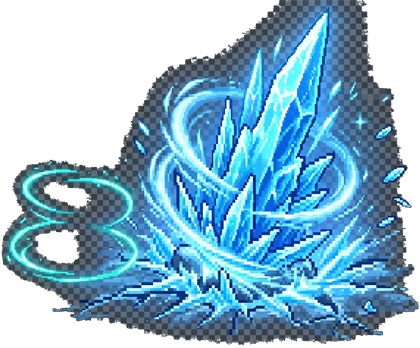
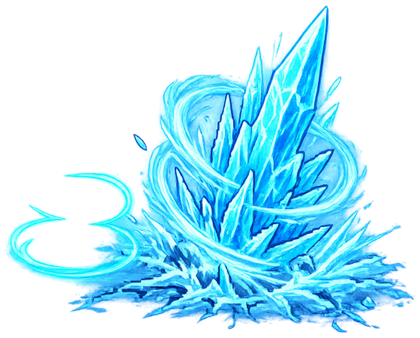
新增惡魔王／樹王兩隻魔王、玩家改為藍色史萊姆、遊戲內返回主選單按鈕
四魔王輪流登場（黑藍巨龍/血色紅龍/惡魔王/樹王），惡魔王與樹王各自三招
技能（遠距彈幕/新星特殊技/近戰揮擊，2 秒前搖警示），遺物先留空待補。
Boss 碰撞判定改用貼圖實際尺寸比例計算，不再寫死龍的 574x320。

玩家角色換成正式美術圖（藍色史萊姆），取代程式產生的簡易貼圖，碰撞
判定同樣改用貼圖比例動態計算。

遊戲內左下角新增「返回主選單」按鈕，跟主選單按鈕同樣的羊皮紙風格，
點擊會正確清掉 GameScene 與可能開著的升級/遺物/選技能場景。

主選單更新日誌補上這幾次的重點更新。

diff --git a/src/boss/Boss.js b/src/boss/Boss.js
@@ -4,15 +4,21 @@ import { textStyle } from '../utils/TextStyle.js';
 
 const BOSS_BASE_HP = 900;
 const BOSS_BASE_DMG = 22;
-// Boss 現在用玩家提供的正式美術圖（去背後的黑龍/紅龍，見 assets/boss_black.png、
-// assets/boss_red.png），兩張圖都統一裁切/縮放成同樣的 574x320，不用再各自調整。
-// 0.9 倍縮放後龍的身體高度跟原本程式產生的貼圖差不多大，翅膀展開會比原本更寬更有氣勢。
+// Boss 現在用玩家提供的正式美術圖。兩隻龍（去背後的黑龍/紅龍，見 assets/boss_black.png、
+// assets/boss_red.png）統一裁切/縮放成 574x320，0.9 倍縮放後龍的身體高度跟原本程式產生
+// 的貼圖差不多大。惡魔王／樹王是直立人形，原始圖片長寬比跟龍差很多（比較接近正方形、
+// 沒有龍那麼寬扁），沿用同一個縮放倍率會顯得比兩隻龍巨大兩倍以上，所以改成每個型態自己
+// 的縮放倍率（見 BOSS_TYPES 的 scale 欄位），讓四種 Boss 站在畫面上的「體型感」比較一致。
 const BOSS_SCALE = 0.9;
 const BOSS_TOUCH_RADIUS = 100;   // Boss 對玩家造成接觸傷害的判定半徑（跟著體型放大）
 
-// 兩種 Boss 型態的外觀／技能配色與死亡時提供的遺物設定。
-// 黑藍巨龍沿用原本的冰系龍息，紅龍則改成火系龍息，死亡後提供的遺物也不同，
-// 這樣兩種 Boss 輪流出現時，玩家最終可以拿到兩種不同的永久遺物。
+// 四種 Boss 型態的外觀／技能配色與死亡時提供的遺物設定。
+// 兩隻龍（黑藍／紅）沿用原本的衝刺／龍爪／龍息三招；惡魔王／樹王是新增的兩隻，
+// 技能組改成「遠距／特殊／近戰」各一招（見 skills 欄位），近戰共用 claw 的揮擊
+// 邏輯、遠距共用 breath 的扇形彈幕邏輯（只是換色換材質），特殊技能則是新增的
+// nova（範圍新星），novaCenter 決定新星中心點是「Boss 自己」還是「鎖定的目標點」。
+// 惡魔王／樹王死亡暫不提供遺物（relicId: null，遺物之後再補上），
+// onBossDefeated() 已經會對 falsy relicId 直接跳過遺物選擇，不影響擊殺獎勵。
 const BOSS_TYPES = {
   blue: {
     label: '⚠ 黑藍巨龍降臨！ ⚠',
@@ -24,7 +30,10 @@ const BOSS_TYPES = {
     boltTexture: 'proj_frost',
     chargeTint: 0xaaccff,
     windColor: 0x24242c, // 黑龍衝刺時周圍的黑色風系粒子
+    clawColor: 0xffe066,
     relicId: 'dragonAura',
+    skills: ['charge', 'claw', 'breath'],
+    skillLabels: { charge: '⚠ 衝刺！', claw: '⚠ 龍爪！', breath: '⚠ 龍息！' },
   },
   red: {
     label: '⚠ 血色紅龍降臨！ ⚠',
@@ -36,14 +45,52 @@ const BOSS_TYPES = {
     boltTexture: 'proj_fireball',
     chargeTint: 0xffcfa0,
     windColor: 0xcc2200, // 紅龍衝刺時周圍的紅色風系粒子
+    clawColor: 0xffe066,
     relicId: 'dragonWings',
+    skills: ['charge', 'claw', 'breath'],
+    skillLabels: { charge: '⚠ 衝刺！', claw: '⚠ 龍爪！', breath: '⚠ 龍息！' },
+  },
+  demon: {
+    label: '⚠ 惡魔王降臨！ ⚠',
+    labelColor: '#d18aff',
+    texture: 'boss_demon',
+    aoeColor: 0x8b2fd9,
+    breathColor: 0x9d4dff,
+    breathTexture: 'fx_frost',
+    boltTexture: 'proj_frost',
+    chargeTint: 0xe0c3ff,
+    windColor: 0x4b1a66, // 惡魔王施放技能時周圍的暗紫色風系粒子
+    clawColor: 0xd94dff,
+    relicId: null, // 遺物之後補上
+    skills: ['breath', 'nova', 'claw'], // 遠距：深淵彈幕／特殊：詛咒新星／近戰：惡魔爪擊
+    skillLabels: { breath: '⚠ 深淵彈幕！', nova: '⚠ 詛咒新星！', claw: '⚠ 惡魔爪擊！' },
+    novaCenter: 'self', // 新星以惡魔王自己為中心炸開
+    novaRadius: 260,
+    scale: 0.62, // 原始圖接近正方形（不像龍那麼寬扁），縮小一點避免體型看起來比龍誇張
+  },
+  treant: {
+    label: '⚠ 樹王降臨！ ⚠',
+    labelColor: '#8fe36a',
+    texture: 'boss_treant',
+    aoeColor: 0x4caf50,
+    breathColor: 0x7ed957,
+    breathTexture: 'fx_frost',
+    boltTexture: 'proj_frost',
+    chargeTint: 0xc8f7b0,
+    windColor: 0x2e5c1f, // 樹王施放技能時周圍的深綠色風系粒子
+    clawColor: 0x9dff6b,
+    relicId: null, // 遺物之後補上
+    skills: ['breath', 'nova', 'claw'], // 遠距：荊棘彈幕／特殊：樹根衝擊／近戰：巨杖橫掃
+    skillLabels: { breath: '⚠ 荊棘彈幕！', nova: '⚠ 樹根衝擊！', claw: '⚠ 巨杖橫掃！' },
+    novaCenter: 'target', // 樹根衝擊鎖定玩家所在位置冒出來，不是繞著樹王自己
+    novaRadius: 170,
+    scale: 0.61, // 原始圖接近正方形，縮小一點避免體型看起來比龍誇張
   },
 };
 
 // 三個技能發動前的「前搖」時間：Boss 會停下來、亮起警示色並顯示警告文字/範圍指示，
 // 讓玩家有充足時間看懂「牠要出招了」並閃開，過了這段時間才會真的造成傷害。
 const TELEGRAPH_MS = 2000;
-const TELEGRAPH_LABELS = { charge: '⚠ 衝刺！', claw: '⚠ 龍爪！', breath: '⚠ 龍息！' };
 
 // Boss 強度倍率：依「這是第幾隻王」(bossIndex，從 1 開始，每 5 分鐘一隻)決定，
 // 不再用存活分鐘數線性計算。數列從 1, 2 開始，之後每項是前兩項相加（費氏數列變體）：
@@ -62,9 +109,9 @@ function bossStrengthMultiplier(bossIndex) {
   return b;
 }
 
-// Boss 系統：西方龍造型，具備衝撞 / 範圍衝擊波 / 龍息遠距攻擊 三種技能，血條與死亡動畫。
-// bossType 決定外觀配色、龍息屬性（冰／火）以及死亡後提供的遺物種類；
-// bossIndex 決定強度倍率（見上方 bossStrengthMultiplier）。
+// Boss 系統：目前有四種型態（黑藍巨龍／血色紅龍／惡魔王／樹王），各自三招技能、
+// 血條與死亡動畫共用同一套邏輯。bossType 決定外觀、技能組合（見 BOSS_TYPES.skills）
+// 以及死亡後提供的遺物種類；bossIndex 決定強度倍率（見上方 bossStrengthMultiplier）。
 export default class Boss {
   constructor(scene, player, difficultyMinutes, bossType = 'blue', bossIndex = 1) {
     this.scene = scene;
@@ -85,10 +132,14 @@ export default class Boss {
     const y = py + Math.sin(angle) * 600;
 
     this.sprite = scene.physics.add.sprite(x, y, this.typeDef.texture);
-    this.sprite.setScale(BOSS_SCALE);
-    // 碰撞圓圈只用來讓物理身體存在（遊戲裡怪物碰撞判定都是手動算距離，不是靠這個），
-    // 圓心抓在新美術圖胸口／交叉的龍爪附近（貼圖寬 574、高 320，身體大約在中央偏下）。
-    this.sprite.body.setCircle(70, 574 / 2 - 70, 176 - 70);
+    this.sprite.setScale(this.typeDef.scale ?? BOSS_SCALE);
+    // 碰撞圓圈只用來讓物理身體存在（遊戲裡怪物碰撞判定都是手動算距離，不是靠這個）。
+    // 圓心抓在美術圖胸口位置：水平置中、垂直落在原圖高度 55% 左右（兩隻龍是寬扁的
+    // 橫向姿勢，惡魔王／樹王是站立的直向人形，圖片長寬比差很多，所以用「原始貼圖
+    // 尺寸的比例」算，而不是寫死 574x320 那組數字，四種 Boss 都能正確對齊）。
+    const texW = this.sprite.frame.width, texH = this.sprite.frame.height;
+    const bodyRadius = texH * 0.219;
+    this.sprite.body.setCircle(bodyRadius, texW / 2 - bodyRadius, texH * 0.55 - bodyRadius);
     this.sprite.setDepth(y);
 
     this.phase = 'chase'; // chase | charge | aoe | ranged
@@ -159,12 +210,13 @@ export default class Boss {
     this.headBarFill.setPosition(bx - 58, headY).setDisplaySize(116 * hpRatio, 8).setDepth(headY);
   }
 
-  // 三個技能輪流隨機挑選：龍之吐息（遠距噴火/噴冰）／衝刺（續力衝撞）／龍爪（三爪金色斬擊）。
+  // 三個技能輪流隨機挑選，實際有哪三招由 typeDef.skills 決定（兩隻龍是
+  // 衝刺／龍爪／龍息；惡魔王／樹王是遠距彈幕／新星／近戰揮擊，見 BOSS_TYPES）。
   // 選好之後不會馬上出招，而是先進入「前搖」：瞄準方向/目標點在這一刻就鎖定，
   // 停頓 TELEGRAPH_MS 讓玩家看到警示、有機會移動閃開，時間到才真的執行攻擊。
   _chooseSkill(time) {
-    const r = Math.random();
-    const kind = r < 0.34 ? 'charge' : r < 0.67 ? 'claw' : 'breath';
+    const skills = this.typeDef.skills || ['charge', 'claw', 'breath'];
+    const kind = skills[Math.floor(Math.random() * skills.length)];
     this._startTelegraph(kind, time);
   }
 
@@ -186,7 +238,7 @@ export default class Boss {
     audioManager.bossRoar();
 
     // 警示文字：跟著 Boss 頭頂浮動，清楚告訴玩家牠準備使出哪一招
-    const label = this.scene.add.text(bx, by - 150, TELEGRAPH_LABELS[kind], textStyle({
+    const label = this.scene.add.text(bx, by - 150, this.typeDef.skillLabels[kind], textStyle({
       fontSize: '30px', color: '#ff4444', fontStyle: 'bold',
     })).setOrigin(0.5).setDepth(20010);
     this.scene.tweens.add({ targets: label, scale: 1.18, duration: 260, yoyo: true, repeat: -1 });
@@ -200,6 +252,11 @@ export default class Boss {
       const cx = bx + Math.cos(this._telegraphAngle) * reach;
       const cy = by + Math.sin(this._telegraphAngle) * reach;
       this._telegraphFx.push(this._telegraphRing(cx, cy, hitRadius));
+    } else if (kind === 'nova') {
+      const t = this.typeDef;
+      const ncx = t.novaCenter === 'target' ? this._telegraphTarget.x : bx;
+      const ncy = t.novaCenter === 'target' ? this._telegraphTarget.y : by;
+      this._telegraphFx.push(this._telegraphRing(ncx, ncy, t.novaRadius, t.aoeColor));
     } else {
       this._telegraphFx.push(this._telegraphCone(bx, by, this._telegraphAngle));
     }
@@ -214,9 +271,10 @@ export default class Boss {
     return line;
   }
 
-  // 龍爪前搖指示圈：從 0 慢慢長大到實際命中半徑，讓玩家清楚看到「危險範圍」在哪
-  _telegraphRing(x, y, endRadius) {
-    const ring = this.scene.add.circle(x, y, 4, 0xff2020, 0.28).setStrokeStyle(4, 0xff2020, 0.9).setDepth(20009);
+  // 前搖指示圈：從 0 慢慢長大到實際命中半徑，讓玩家清楚看到「危險範圍」在哪。
+  // 龍爪跟新星都共用這個指示圈，顏色可以指定（不指定就用預設的警示紅）。
+  _telegraphRing(x, y, endRadius, color = 0xff2020) {
+    const ring = this.scene.add.circle(x, y, 4, color, 0.28).setStrokeStyle(4, color, 0.9).setDepth(20009);
     this.scene.tweens.add({ targets: ring, radius: endRadius, duration: TELEGRAPH_MS, ease: 'Sine.easeIn' });
     return ring;
   }
@@ -249,6 +307,7 @@ export default class Boss {
     const kind = this._telegraphKind;
     if (kind === 'charge') this._executeCharge(time);
     else if (kind === 'claw') this._executeClaw(time);
+    else if (kind === 'nova') this._executeNova(time);
     else this._executeBreath(time);
   }
 
@@ -292,8 +351,43 @@ export default class Boss {
     this.sprite.clearTint();
   }
 
-  // 技能二：龍爪 —— 往前搖鎖定方向的前方揮出三條金色爪痕，短暫延遲後在揮擊點造成範圍傷害。
-  // 三條爪痕垂直排列、依序些微延遲出現，模擬「三根爪子同時劃過」的斬擊感。
+  // 特殊技能：新星 —— 惡魔王／樹王專屬的第三招，取代兩隻龍的衝刺。novaCenter 決定
+  // 爆炸中心是「Boss 自己」（惡魔王的詛咒新星，逼玩家遠離）還是「前搖鎖定的目標點」
+  // （樹王的樹根衝擊，玩家站在原地不動就會被炸到，逼玩家在前搖時間內先跑開）。
+  // 沒有續航動作，前搖結束的瞬間直接判定一次範圍傷害，跟龍爪同樣是瞬間打擊型技能。
+  _executeNova(time) {
+    this.phase = 'nova';
+    const t = this.typeDef;
+    const bx = this.sprite.x, by = this.sprite.y;
+    const cx = t.novaCenter === 'target' ? this._telegraphTarget.x : bx;
+    const cy = t.novaCenter === 'target' ? this._telegraphTarget.y : by;
+    const radius = t.novaRadius;
+
+    this.scene.cameras.main.flash(220, (t.aoeColor >> 16) & 0xff, (t.aoeColor >> 8) & 0xff, t.aoeColor & 0xff);
+    this.scene.hitStop(120);
+    audioManager.bossRoar();
+
+    // 由中心向外炸開的雙層光環（主題色 + 內層純白），加上大量碎片噴發，做出「新星」的份量感
+    this.scene.spawnGlowRing(cx, cy, 'fx_bossdeath', t.aoeColor, 0.5, radius / 26, 480);
+    this.scene.spawnGlowRing(cx, cy, 'fx_bossdeath', 0xffffff, 0.4, radius / 45, 340);
+    this.scene.spawnBurstFx(cx, cy, t.aoeColor, 22, 'fx_crit', 210);
+
+    this.scene.time.delayedCall(120, () => {
+      if (!this.alive) return;
+      const d = dist(cx, cy, this.player.sprite.x, this.player.sprite.y);
+      if (d < radius) {
+        const died = this.player.takeDamage(this.dmg * 1.3, this.scene.time.now);
+        if (died) this.scene.onPlayerDeath();
+      }
+      this.phase = 'chase';
+      this.nextSkillAt = this.scene.time.now + 3200;
+    });
+  }
+
+  // 技能二：近戰揮擊 —— 往前搖鎖定方向的前方揮出五道爪痕/揮擊痕，短暫延遲後在揮擊點
+  // 造成範圍傷害。顏色改用 typeDef.clawColor（兩隻龍是金色，惡魔王紫色，樹王綠色），
+  // 讓不同 Boss 的近戰攻擊有各自的視覺辨識度；五道痕跡垂直排列、依序些微延遲出現，
+  // 模擬「同時劃過」的斬擊感。
   _executeClaw(time) {
     this.phase = 'claw';
     const bx = this.sprite.x, by = this.sprite.y;
@@ -302,6 +396,7 @@ export default class Boss {
     const cx = bx + Math.cos(ang) * reach;
     const cy = by + Math.sin(ang) * reach;
     const hitRadius = 95;
+    const clawColor = this.typeDef.clawColor || 0xffe066;
 
     this.scene.cameras.main.flash(200, 255, 224, 130);
     this.scene.hitStop(110);
@@ -314,7 +409,7 @@ export default class Boss {
       const sx = cx + Math.cos(perpAng) * off;
       const sy = cy + Math.sin(perpAng) * off;
       const claw = this.scene.add.image(sx, sy, 'fx_claw_slash')
-        .setDepth(20005).setRotation(ang).setScale(0.4, 1).setAlpha(0.95);
+        .setDepth(20005).setRotation(ang).setScale(0.4, 1).setAlpha(0.95).setTint(clawColor);
       this.scene.tweens.add({
         targets: claw, scaleX: 1.5, alpha: 0, duration: 280, delay: Math.abs(i) * 35,
         onComplete: () => claw.destroy(),
@@ -323,10 +418,10 @@ export default class Boss {
 
     this.scene.time.delayedCall(140, () => {
       if (!this.alive) return; // 動畫播放期間 Boss 可能已被打死，避免存取已銷毀的物件
-      // 落地瞬間追加一圈金色衝擊光環＋碎片噴發＋二次打擊停頓，把「爪子真正打中地面」
+      // 落地瞬間追加一圈衝擊光環＋碎片噴發＋二次打擊停頓，把「揮擊真正打中地面」
       // 那一刻的份量感做出來，不再只有斬擊殘影而已
-      this.scene.spawnGlowRing(cx, cy, 'fx_bossdeath', 0xffe066, 0.35, 3.4, 400);
-      this.scene.spawnBurstFx(cx, cy, 0xffe066, 20, 'fx_crit', 210);
+      this.scene.spawnGlowRing(cx, cy, 'fx_bossdeath', clawColor, 0.35, 3.4, 400);
+      this.scene.spawnBurstFx(cx, cy, clawColor, 20, 'fx_crit', 210);
       this.scene.cameras.main.flash(140, 255, 255, 210);
       this.scene.hitStop(70);
       const d = dist(cx, cy, this.player.sprite.x, this.player.sprite.y);

diff --git a/src/scenes/UIScene.js b/src/scenes/UIScene.js
@@ -148,6 +148,26 @@ export default class UIScene extends Phaser.Scene {
       this.add.image(x, y, 'ui_equip_slot').setDisplaySize(58, 58).setAlpha(0.15).setScrollFactor(0);
     }
 
+    // ---- 左下角：返回主選單按鈕（放在底部狀態列上方，避免跟狀態列格子疊在一起），
+    // 用跟主選單按鈕一樣的米色羊皮紙風格＋深咖啡色文字，維持全遊戲按鈕視覺統一。
+    // 點下去要把 GameScene 本身跟可能還開著的關卡內彈出視窗（升級/遺物/開局選技能）
+    // 一起關掉，不然回到主選單後這些場景還留在背景繼續跑。
+    const menuBtnY = bottomBarY - bottomBarH / 2 - 36;
+    const menuBtn = this.add.image(120, menuBtnY, 'ui_button_parchment')
+      .setDisplaySize(180, 56).setScrollFactor(0).setInteractive({ useHandCursor: true });
+    this.add.text(120, menuBtnY, '返回主選單', textStyle({
+      fontSize: '20px', color: '#3a2413',
+    })).setOrigin(0.5).setScrollFactor(0);
+    menuBtn.on('pointerover', () => menuBtn.setTint(0xfff3d0));
+    menuBtn.on('pointerout', () => menuBtn.clearTint());
+    menuBtn.on('pointerdown', () => {
+      ['LevelUpScene', 'RelicChoiceScene', 'StartSkillScene'].forEach((key) => {
+        if (this.scene.isActive(key)) this.scene.stop(key);
+      });
+      this.scene.stop('GameScene');
+      this.scene.start('MainMenuScene');
+    });
+
     // ---- 畫面邊緣指示箭頭：血包（紅）／磁鐵（藍紫）不在畫面內時，指出方向 ----
     this.healthArrow = this.add.image(0, 0, 'ui_arrow').setTint(0xff5a5a).setScale(1.1)
       .setScrollFactor(0).setDepth(20000).setVisible(false);

diff --git a/src/player/Player.js b/src/player/Player.js
@@ -46,7 +46,12 @@ export default class Player {
     // 這裡縮小回 0.5 倍讓遊戲內實際顯示大小維持不變。
     this.sprite.setScale(0.5);
     this.sprite.setCollideWorldBounds(false);
-    this.sprite.body.setCircle(22, 10, 16);
+    // 碰撞圓圈用「原始貼圖尺寸的比例」算，而不是寫死數字——'balanced' 現在改用
+    // 玩家提供的藍色史萊姆正式美術圖，是緊貼裁切過的圖（64x51，沒有程式產生貼圖
+    // 那圈留白），圓心/半徑要跟著實際圖片大小重新算，不然碰撞判定會偏移。
+    const texW = this.sprite.frame.width, texH = this.sprite.frame.height;
+    const bodyRadius = Math.min(texW, texH) * 0.42;
+    this.sprite.body.setCircle(bodyRadius, texW / 2 - bodyRadius, texH / 2 - bodyRadius);
     this.sprite.setDepth(y);
 
     this.level = 1;

diff --git a/src/scenes/GameScene.js b/src/scenes/GameScene.js
@@ -232,9 +232,10 @@ export default class GameScene extends Phaser.Scene {
     if (this.boss) {
       this.boss.update(time, delta);
     } else if (time - this.startTime > this.nextBossAt) {
-      // 每 5 關（第 5、10、15...關）出現一隻 Boss，兩種型態輪流出現：
-      // 第 1、3、5...次是黑藍巨龍，第 2、4、6...次是血色紅龍
-      const bossType = this.bossSpawnCount % 2 === 0 ? 'blue' : 'red';
+      // 每 5 關（第 5、10、15...關）出現一隻 Boss，四種型態輪流出現：
+      // 黑藍巨龍 → 血色紅龍 → 惡魔王 → 樹王 → 黑藍巨龍……依序循環
+      const BOSS_ROTATION = ['blue', 'red', 'demon', 'treant'];
+      const bossType = BOSS_ROTATION[this.bossSpawnCount % BOSS_ROTATION.length];
       this.bossSpawnCount++;
       this.nextBossAt = ((this.bossSpawnCount + 1) * BOSS_STAGE_INTERVAL - 1) * 60000;
       this.boss = new Boss(this, this.player, elapsedMin, bossType, this.bossSpawnCount);

diff --git a/src/scenes/MainMenuScene.js b/src/scenes/MainMenuScene.js
@@ -111,14 +111,15 @@ export default class MainMenuScene extends Phaser.Scene {
       fontSize: '21px', color: '#cfe9ff', align: 'center', lineSpacing: 7,
     })).setOrigin(0.5, 0);
 
-    // 更新日誌：簡單列出近期幾項重點更新，方便玩家知道遊戲還在持續開發
+    // 更新日誌：簡單列出近期幾項重點更新，方便玩家知道遊戲還在持續開發（新的排在上面）
     const CHANGELOG = [
+      '🆕 新增帳號密碼系統，跨裝置同步存檔進度',
+      '🆕 新增惡魔王／樹王，四魔王輪流登場',
+      '🎨 玩家角色、冰霜技能換成正式美術圖',
       '🆕 新增裝備系統：武器/頭盔/衣服/褲子/鞋子',
       '🆕 新增背包與商店，擊殺數可換金幣購買裝備',
       '🆕 新增遺物系統：擊敗魔王可獲得永久強化',
-      '🆕 雙魔王輪替登場，各有專屬技能與外觀',
       '🆕 關卡制取代倒數計時，魔王關卡特別標示',
-      '🛠 修正多項卡死、特效不同步等問題',
     ];
     const logPanelH = 320;
     const logPanelY = lbPanelY + lbPanelH / 2 + 30 + logPanelH / 2;

diff --git a/src/scenes/BootScene.js b/src/scenes/BootScene.js
@@ -11,9 +11,14 @@ export default class BootScene extends Phaser.Scene {
     this.load.image('menu_bg', 'assets/menu_bg.jpg');
     this.load.image('boss_red', 'assets/boss_red.png');
     this.load.image('boss_black', 'assets/boss_black.png');
+    // 新增兩隻 Boss：惡魔王／樹王的正式美術圖
+    this.load.image('boss_demon', 'assets/boss_demon.png');
+    this.load.image('boss_treant', 'assets/boss_treant.png');
     // 冰霜新星／永凍冰川（進化版）的冰柱正式美術圖，取代原本程式產生的簡易冰柱貼圖
     this.load.image('fx_ice_pillar_normal', 'assets/fx_ice_pillar_normal.png');
     this.load.image('fx_ice_pillar_evo', 'assets/fx_ice_pillar_evo.png');
+    // 玩家角色改用正式美術圖（藍色史萊姆），取代原本程式產生的簡易貼圖
+    this.load.image('player_balanced', 'assets/player_slime.png');
 
     const equipSlots = ['weapon', 'helmet', 'clothes', 'pants', 'shoes'];
     const equipTiers = ['beginner', 'mid', 'high'];

diff --git a/src/systems/TextureFactory.js b/src/systems/TextureFactory.js
@@ -66,11 +66,14 @@ export default class TextureFactory {
   // 注意：這裡用 64x64（原本 32x32 的兩倍）繪製，讓選角畫面放大顯示時
   // 有更多細節可看，而不是把一張很小的圖直接暴力放大變得死板。
   generatePlayers() {
+    // 'balanced' 現在改用玩家提供的正式美術圖（藍色史萊姆，見 BootScene 的
+    // player_balanced 圖片載入），不再程式產生，避免跟載入的圖片同一個材質 key 衝突。
+    // 其餘三種角色目前選角畫面已經沒有入口（CharacterSelectScene 沒有被排進場景清單），
+    // 保留程式產生只是不讓 Player.js 裡的 CHARACTERS 定義失效，不影響實際遊戲畫面。
     const palette = {
       attacker: { body: '#ff6b5b', trim: '#c73f30', eye: '#2b2b2b' },
       speedster: { body: '#5bd4ff', trim: '#2a9ec2', eye: '#2b2b2b' },
       tank: { body: '#8f6bff', trim: '#5b3fc7', eye: '#2b2b2b' },
-      balanced: { body: '#5bff8f', trim: '#2ac25b', eye: '#2b2b2b' },
     };
     for (const [id, c] of Object.entries(palette)) {
       const { tex, ctx } = this._canvas(`player_${id}`, 64, 64);